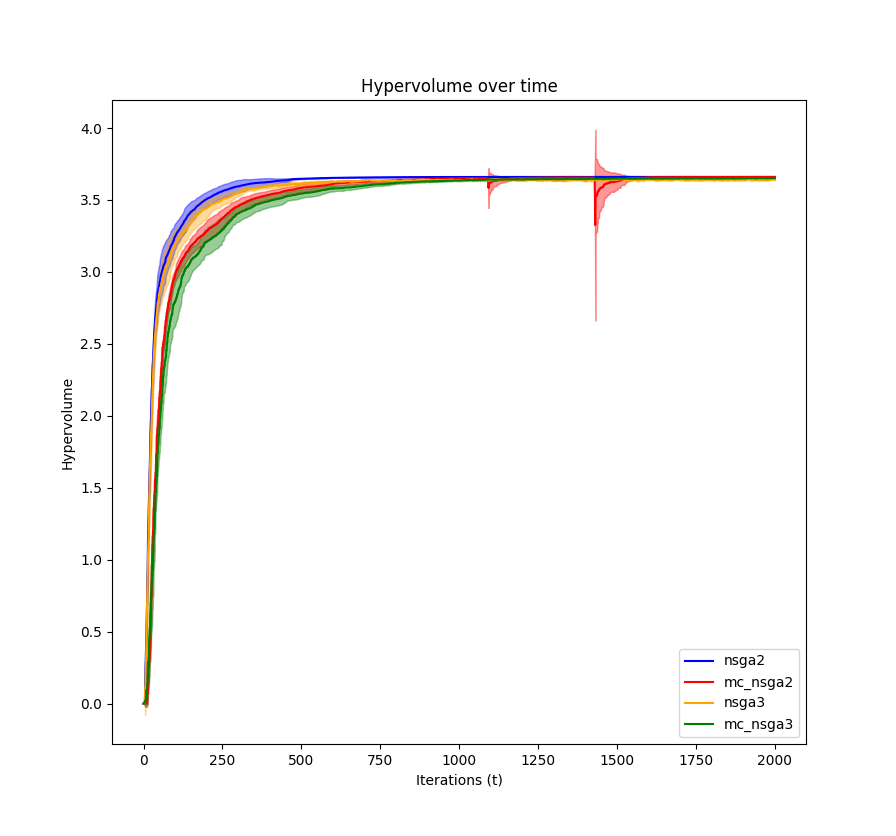
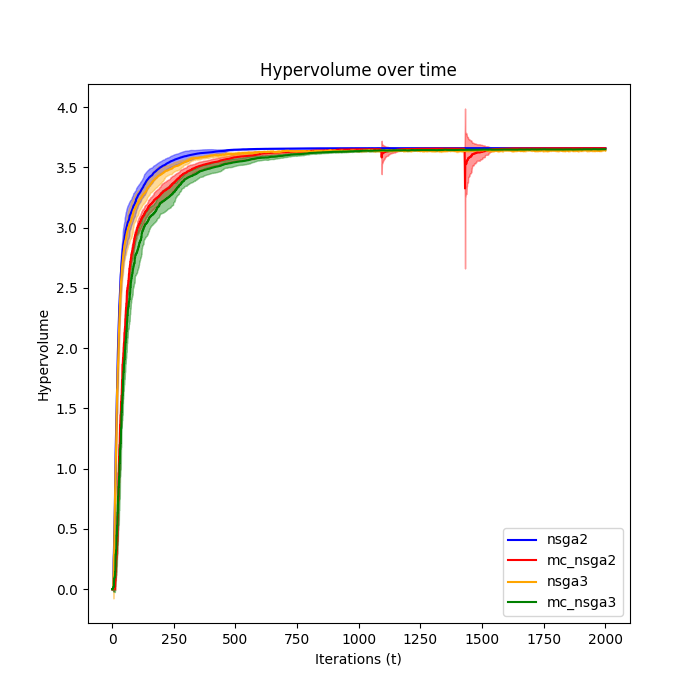
add printer objectives

diff --git a/printer_model/__init__1.py b/printer_model/__init__1.py
@@ -14,20 +14,19 @@ import numpy.typing as npt
 from typing import List
 import logging
 
-
 # Create logger
 logging.basicConfig(level=logging.INFO)
 logger = logging.getLogger(__name__)
 
 
 def get_random_parameters(
-    limits: list,
-    prec_facs: npt.NDArray,
-    cont_ds: npt.NDArray,
-    samp_cnt: int,
-    min_ppl: int = None,
-    max_t: float = None,
-    hyp_lt: float = None,
+        limits: list,
+        prec_facs: npt.NDArray,
+        cont_ds: npt.NDArray,
+        samp_cnt: int,
+        min_ppl: int = None,
+        max_t: float = None,
+        hyp_lt: float = None,
 ) -> npt.NDArray:
     """
     TODO fill
@@ -96,18 +95,18 @@ def get_random_parameters(
 
 
 def generate_offsprings(
-    pot_par_ds: npt.NDArray,
-    new_pop_sz: int,
-    cross_prob: float,
-    mut_prob: float,
-    scores: npt.NDArray,
-    bits_per_param: npt.NDArray,
-    prec_facs: npt.NDArray,
-    limits: List[npt.NDArray],
-    min_ppl: int = None,
-    max_t: float = None,
-    hyp_lt: float = None,
-    divs: npt.NDArray = np.array([1000, 1, 1, 1, 1, 1, 1]),
+        pot_par_ds: npt.NDArray,
+        new_pop_sz: int,
+        cross_prob: float,
+        mut_prob: float,
+        scores: npt.NDArray,
+        bits_per_param: npt.NDArray,
+        prec_facs: npt.NDArray,
+        limits: List[npt.NDArray],
+        min_ppl: int = None,
+        max_t: float = None,
+        hyp_lt: float = None,
+        divs: npt.NDArray = np.array([1000, 1, 1, 1, 1, 1, 1]),
 ) -> npt.NDArray:
     """
     TODO fill

diff --git a/printer_model/printer_model.py b/printer_model/printer_model.py
@@ -1,4 +1,4 @@
-import data.exploration_params as exploration_params
+import exploration_params
 from oraclase.color_processing._xyz_2_lab import _xyz_2_lab
 import oraclase.color_processing as color_processing
 import oraclase.visualization as visualization
@@ -15,13 +15,13 @@ import matplotlib.pyplot as plt
 
 
 def predict_printer_colors(
-    ink_area_coverages: npt.NDArray,
-    ng_primary_reflectances: npt.NDArray,
-    white_reference: npt.NDArray,
-    d65_illuminant: npt.NDArray,
-    xbar: npt.NDArray,
-    ybar: npt.NDArray,
-    zbar: npt.NDArray,
+        ink_area_coverages: npt.NDArray,
+        ng_primary_reflectances: npt.NDArray,
+        white_reference: npt.NDArray,
+        d65_illuminant: npt.NDArray,
+        xbar: npt.NDArray,
+        ybar: npt.NDArray,
+        zbar: npt.NDArray,
 ):
     #
     colorant_area_coverages = compute_demichel(ink_area_coverages)
@@ -73,7 +73,7 @@ def compute_demichel(ink_area_coverage: npt.NDArray) -> npt.NDArray:
 
 
 def compute_neugebauer(
-    colorant_area_coverage: npt.NDArray, ng_primary_reflectances: npt.NDArray
+        colorant_area_coverage: npt.NDArray, ng_primary_reflectances: npt.NDArray
 ) -> npt.NDArray:
     predicted_spectras = np.matmul(colorant_area_coverage, ng_primary_reflectances)
 

diff --git a/printer_model/__init__2.py b/printer_model/__init__2.py
@@ -15,7 +15,6 @@ import numpy.typing as npt
 from typing import List
 import logging
 
-
 # Create logger
 logging.basicConfig(level=logging.INFO)
 logger = logging.getLogger(__name__)
@@ -53,7 +52,7 @@ def sort_nd(points_ps, start_angle_range, cone_count_range, obj_scores):
 
         #
         start_angle = start_angle_range[0] + ora * (
-            start_angle_range[1] - start_angle_range[0]
+                start_angle_range[1] - start_angle_range[0]
         )
         cone_count = cone_count_range[0] + round(
             cr * (cone_count_range[1] - cone_count_range[0])
@@ -126,12 +125,12 @@ def sort_nd(points_ps, start_angle_range, cone_count_range, obj_scores):
 
 
 def compute_score(
-    points_ds: npt.NDArray,
-    points_ps: npt.NDArray,
-    obj: npt.NDArray,
-    k_n: int,
-    limits_ds: List[npt.NDArray],
-    limits_ps: List[npt.NDArray],
+        points_ds: npt.NDArray,
+        points_ps: npt.NDArray,
+        obj: npt.NDArray,
+        k_n: int,
+        limits_ds: List[npt.NDArray],
+        limits_ps: List[npt.NDArray],
 ):
     """
     TODO Fill

diff --git a/printer_model/_lt_obj.py b/printer_model/_lt_obj.py
@@ -1,0 +1,47 @@
+
+"""
+@Author Sebastian Cucerca
+@Created 20/01/2023
+"""
+
+# Imports
+import numpy as np
+import numpy.typing as npt
+
+
+def _lt_obj(lts: npt.NDArray) -> npt.NDArray:
+    """
+    TODO Write explanation
+    :param lts:
+    :return:
+    """
+
+    #
+    ids = np.argsort(lts)
+
+    #
+    scores = np.zeros(len(lts))
+
+    #
+    scores[ids] = np.linspace(1, len(lts), len(lts))
+
+    #
+    scores = scores / len(lts)
+
+    #
+    return scores
+
+
+"""
+function scores = LTObj(lts)
+    
+    [~, ids] = sort(lts, 'ascend');
+    
+    scores = zeros(numel(lts), 1);
+    scores(ids) = 1:numel(lts);
+    scores = scores ./ numel(lts);
+    
+end
+
+
+"""

diff --git a/plot.py b/plot.py
@@ -111,11 +111,11 @@ def plot_populations(test_suite, test, model_name, num_objectives):
 
 
 def main():
-    test_suite = "oka"
-    test = "oka1"
+    test_suite = "zdt"
+    test = "zdt1"
     num_objectives = 2
-    model_names = ["nsga3", "mc_nsga3"]
-    # model_names = ["nsga2", "mc_nsga2", "nsga3", "mc_nsga3"]
+    # model_names = ["nsga3", "mc_nsga3"]
+    model_names = ["nsga2", "mc_nsga2", "nsga3", "mc_nsga3"]
     # model_names = ["nsga2", "mc_nsga2"]
     # sns.set_theme(style="darkgrid")
     plot_hypevolumes(test_suite, test, model_names)

diff --git a/printer_model/_l_star_obj.py b/printer_model/_l_star_obj.py
@@ -1,0 +1,32 @@
+
+"""
+@Author Sebastian Cucerca
+@Created 20/01/2023
+"""
+
+# Imports
+import numpy as np
+import numpy.typing as npt
+
+
+def _l_star_obj(l_star_values: npt.NDArray) -> npt.NDArray:
+	"""
+	TODO Write explanation
+	:param l_star_values:
+	:return:
+	"""
+
+	#
+	obj_values = l_star_values / 100
+
+	#
+	return obj_values
+
+
+"""
+function vals = LStarObj(Ls)
+    vals = Ls ./ 100;
+end
+
+
+"""

diff --git a/report/MonteCarloMethod.md b/report/MonteCarloMethod.md
@@ -80,5 +80,42 @@ first front, the second front, and so on.
 
 #### 2.2
 
-Now I try another thing. Instead of slicing the polar space in random sectors, I uniformly slice the polar space and
+I also tried another thing. Instead of slicing the polar space in random sectors, I uniformly slice the polar space and
 then rotate it with a random angle.
+
+## Using the Monte-Carlo Method as a general improvement method on other algorithms
+
+I tried to augment the other typical algorithms with the Monte-Carlo method to see if it can improve the results. For
+this purpose, in order to preserve the structure and performance of the base algorithm, either you have to apply the MC
+method on a portion of the population, or you have to apply it on the whole population but just in some iterations.
+
+I used `NSGA-II` and `NSGA-III` as the base algorithms. I applied the MC method on a portion of the population in the
+first, and the results where unsatisfactory. Then I applied the MC method on the whole population in some iterations,
+and the results where better. Even though the results where better in some cases, it was not consistent. In some tests,
+the `NSGA-III` itself was slightly better than the augmented version.
+
+In this approach, I used the first method of the MC elitism conditions with no relaxing, but used the uniform polar
+space slicing with random rotation.
+
+I tested the implementation on `ZDT`, `DTLZ`, `CPFT`, `OKA` and `RE` problems. The comparison of the hypervolume of the
+results is shown in the following figure.
+
+|                     ZDT1                     |                      ZDT2                       |                     ZDT3                     |                      ZDT4                       |
+|:--------------------------------------------:|:-----------------------------------------------:|:--------------------------------------------:|:-----------------------------------------------:|
+|     ![](../images/hypervolumes/zdt1.png)     |      ![](../images/hypervolumes/zdt2.png)       |     ![](../images/hypervolumes/zdt3.png)     |      ![](../images/hypervolumes/zdt4.png)       |
+
+|                    DTLZ1                     |                      DTLZ2                      |                    DTLZ3                     |                      DTLZ4                      |
+| :------------------------------------------: | :---------------------------------------------: | :------------------------------------------: | :---------------------------------------------: |
+|    ![](../images/hypervolumes/dtlza.png)     |      ![](../images/hypervolumes/dtlz2.png)      |    ![](../images/hypervolumes/dtlz3.png)     |      ![](../images/hypervolumes/stlz4.png)      |
+
+|                    CPFT2                     |                      CPFT3                      |                    CPFT4                     |                      ZDT4                       |
+| :------------------------------------------: | :---------------------------------------------: | :------------------------------------------: | :---------------------------------------------: |
+|    ![](../images/hypervolumes/cpft2.png)     |      ![](../images/hypervolumes/cpft3.png)      |    ![](../images/hypervolumes/cpft4.png)     |      ![](../images/hypervolumes/zdt4.png)       |
+
+|                  NSGA-II                  |                  MCNSGA-II                   |                 NSGA-III                  |                  MCNSGA-II                   |
+|:-----------------------------------------:|:--------------------------------------------:|:-----------------------------------------:|:--------------------------------------------:|
+| ![](../images/populations/zdt1_nsga2.png) | ![](../images/populations/zdt1_mc_nsga2.png) | ![](../images/populations/zdt1_nsga3.png) | ![](../images/populations/zdt1_mc_nsga3.png) |
+| ![](../images/populations/zdt2_nsga2.png) | ![](../images/populations/zdt2_mc_nsga2.png) | ![](../images/populations/zdt2_nsga3.png) | ![](../images/populations/zdt2_mc_nsga3.png) |
+
+For Each test, I have saved the used parameters in the `parameters` folder. I have also saved the result populations of
+each method.
